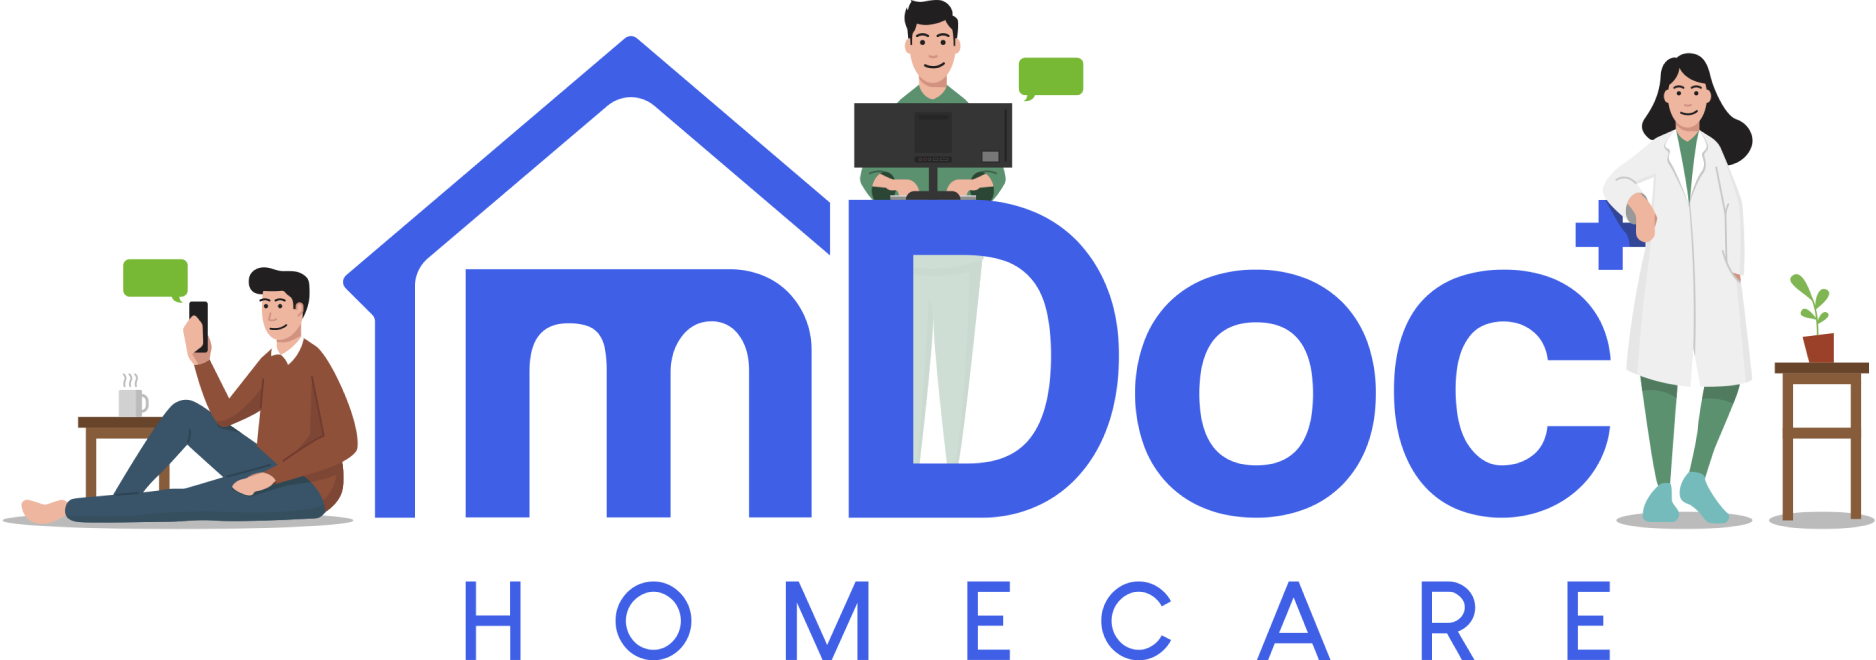
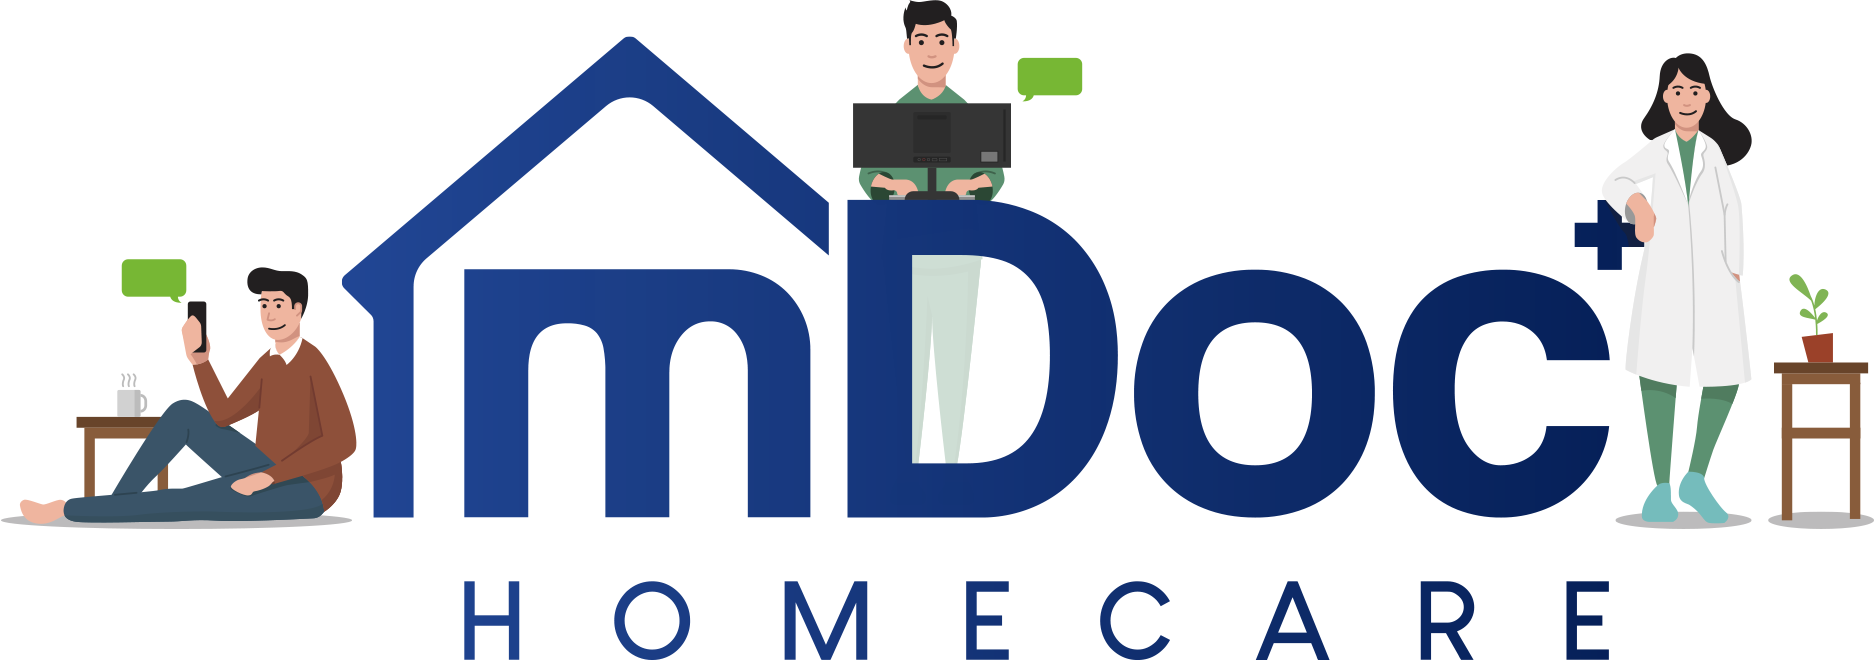
apply brand color

diff --git a/src/home/components/Intro.js b/src/home/components/Intro.js
@@ -1,6 +1,6 @@
 import React from "react"
 import mainLogo from "../../general/img/main.png";
-import severance from "../../general/img/severance.png";
+// import severance from "../../general/img/severance.png";
 import "./Intro.scss";
 
 const Intro = () => {
